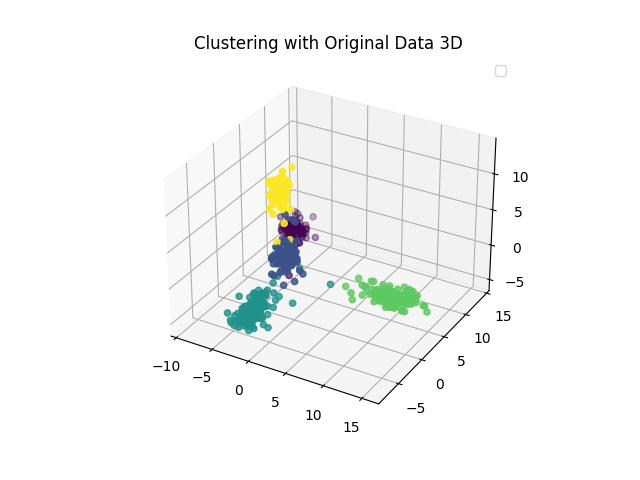
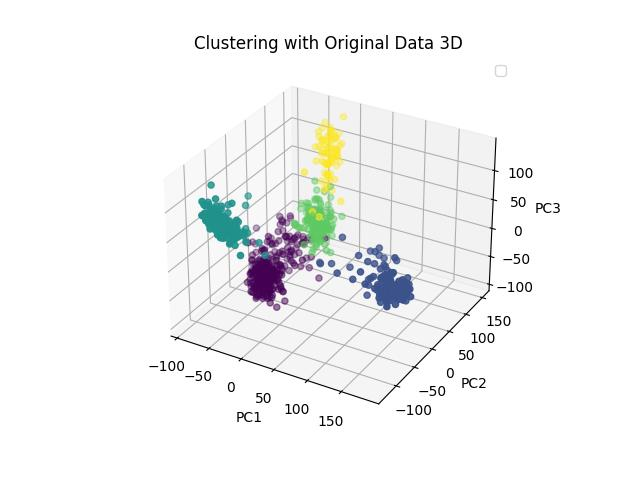
numeric clustering birch

diff --git a/src/numeric.py b/src/numeric.py
@@ -9,10 +9,9 @@ import matplotlib.pyplot as plt
 import csv
 import numpy as np
 import pandas as pd
-from sklearn.cluster import DBSCAN, KMeans
+from sklearn.cluster import DBSCAN, KMeans, Birch
 from sklearn.decomposition import PCA as sklearnPCA
 from sklearn.discriminant_analysis import LinearDiscriminantAnalysis as LDA
-from sklearn.ensemble import RandomForestClassifier
 from sklearn.linear_model import LogisticRegression
 from sklearn.metrics import accuracy_score, f1_score, make_scorer
 from sklearn.model_selection import cross_validate, train_test_split
@@ -21,14 +20,14 @@ from sklearn.tree import DecisionTreeClassifier
 from tqdm import tqdm
 
 
-def make_scatter_plot(data, labels, title, save_plot=False, dimension=2, cluster=None):
+def make_scatter_plot(data, labels, title, save_plot=False, dimension=2, cluster=[]):
     fig = plt.figure()
     if dimension == 3:
 
         ax = fig.add_subplot(projection='3d')
         ax.set_zlabel('PC3')
 
-        if cluster == None:
+        if len(cluster) == 0:
             classes = list(set(np.array(labels.values)))
             for class_ in classes:
                 ax.scatter(data[labels==class_][0], data[labels==class_][1], data[labels==class_][2], label=class_)
@@ -37,7 +36,7 @@ def make_scatter_plot(data, labels, title, save_plot=False, dimension=2, cluster
 
     else:
         ax = fig.add_subplot()
-        if cluster == None:
+        if len(cluster) == 0:
             classes = list(set(np.array(labels.values)))
             for class_ in classes:
                 ax.scatter(data[labels==class_][0], data[labels==class_][1], label=class_)
@@ -167,10 +166,11 @@ def cluster_with_params(x1, x2, eps, min_samples):
     clusters =len(set(labels))-(1 if -1 in labels else 0)
     return labels, clusters
 
-def k_means_clustering(x1, x2):
+def brc_clustering(x1, x2):
     complete_data = np.concatenate((x1, x2))
-    kmeans = KMeans(n_clusters=5, random_state=69).fit(complete_data)
-    labels = kmeans.labels_
+    brc = Birch(n_clusters=5).fit(complete_data)
+    labels = brc.labels_
+    print(labels)
     clusters =len(set(labels))-(1 if -1 in labels else 0)
     return labels, clusters
 
@@ -181,8 +181,7 @@ def main():
     print('reading data...')
 
     #------------Data Analysis------------#
-    column_names = [f'gene_{i}' for i in range(0, 200)]
-    column_names.append('Unnamed: 0')
+    column_names = [f'gene_{i}' for i in range(0, 200)].append('Unnamed: 0')
     x = pd.read_csv(f'{data_path}/data.csv').set_index('Unnamed: 0')
     # x = pd.read_csv(f'{data_path}/data.csv',usecols=column_names).set_index('Unnamed: 0')
     y = pd.read_csv(f'{data_path}/labels.csv').set_index('Unnamed: 0').Class
@@ -190,10 +189,9 @@ def main():
     unique_classes = list(set(np.array(y.values)))
     print(f'number of rows: {row_size}\nnumber of columns: {col_size}')
     print(f'unique classes: {unique_classes}')
-    visualise_data(x, y, save=True, dims=2, title='visualisation of numeric data 2D')
-    visualise_data(x, y, save=True, dims=3, title='visualisation of numeric data 3D')
+    # visualise_data(x, y, save=True, dims=2, title='visualisation of numeric data 2D')
+    # visualise_data(x, y, save=True, dims=3, title='visualisation of numeric data 3D')
 
-    exit()
     x_train, x_test, y_train, y_test = train_test_split(x, y, test_size=0.3, stratify=y, random_state=69)
 
     #------------Feature Extraction------------#
@@ -254,18 +252,18 @@ def main():
     print('\nclustering data...')
     # cluster_data_search(original_train, original_test)
     # cluster_data_search(reduced_train, reduced_test)
-    # original_labels, original_clusters = k_means_clustering(original_train, original_test)
+    original_labels, original_clusters = brc_clustering(original_train, original_test)
     # print(original_labels)
-    # # reduced_labels, reduced_clusters = cluster_with_params(reduced_train, reduced_test, 5.63, 7)
+    reduced_labels, reduced_clusters = cluster_with_params(reduced_train, reduced_test, 3, 20)
 
-    # print(f'Estimated no. of clusters for original dataset: {original_clusters}')
-    # # print(f'Estimated no. of clusters for reduced dataset: {reduced_clusters}')
-    # original_data = np.concatenate((reduced_train, reduced_test))
-    # reduced_data = np.concatenate((reduced_train, reduced_test))
-    # visualise_cluster(original_data, original_labels, dims=2, save=True,  title='Clustering with Original Data 2D')
-    # visualise_cluster(original_data, original_labels, dims=3, save=True,  title='Clustering with Original Data 3D')
-    # visualise_cluster(reduced_data, reduced_labels, dims=2, save=True,  title='Clustering with Reduced Data 2D')
-    # visualise_cluster(reduced_data, reduced_labels, dims=3, save=True,  title='Clustering with Reduced Data 3D')
+    print(f'Estimated no. of clusters for original dataset: {original_clusters}')
+    print(f'Estimated no. of clusters for reduced dataset: {reduced_clusters}')
+    original_data = np.concatenate((original_train, original_test))
+    reduced_data = np.concatenate((reduced_train, reduced_test))
+    visualise_cluster(original_data, original_labels, dims=2, save=True,  title='Clustering with Original Data 2D')
+    visualise_cluster(original_data, original_labels, dims=3, save=True,  title='Clustering with Original Data 3D')
+    visualise_cluster(reduced_data, reduced_labels, dims=2, save=True,  title='Clustering with Reduced Data 2D')
+    visualise_cluster(reduced_data, reduced_labels, dims=3, save=True,  title='Clustering with Reduced Data 3D')
 
 
     #------------Grid Search------------#
